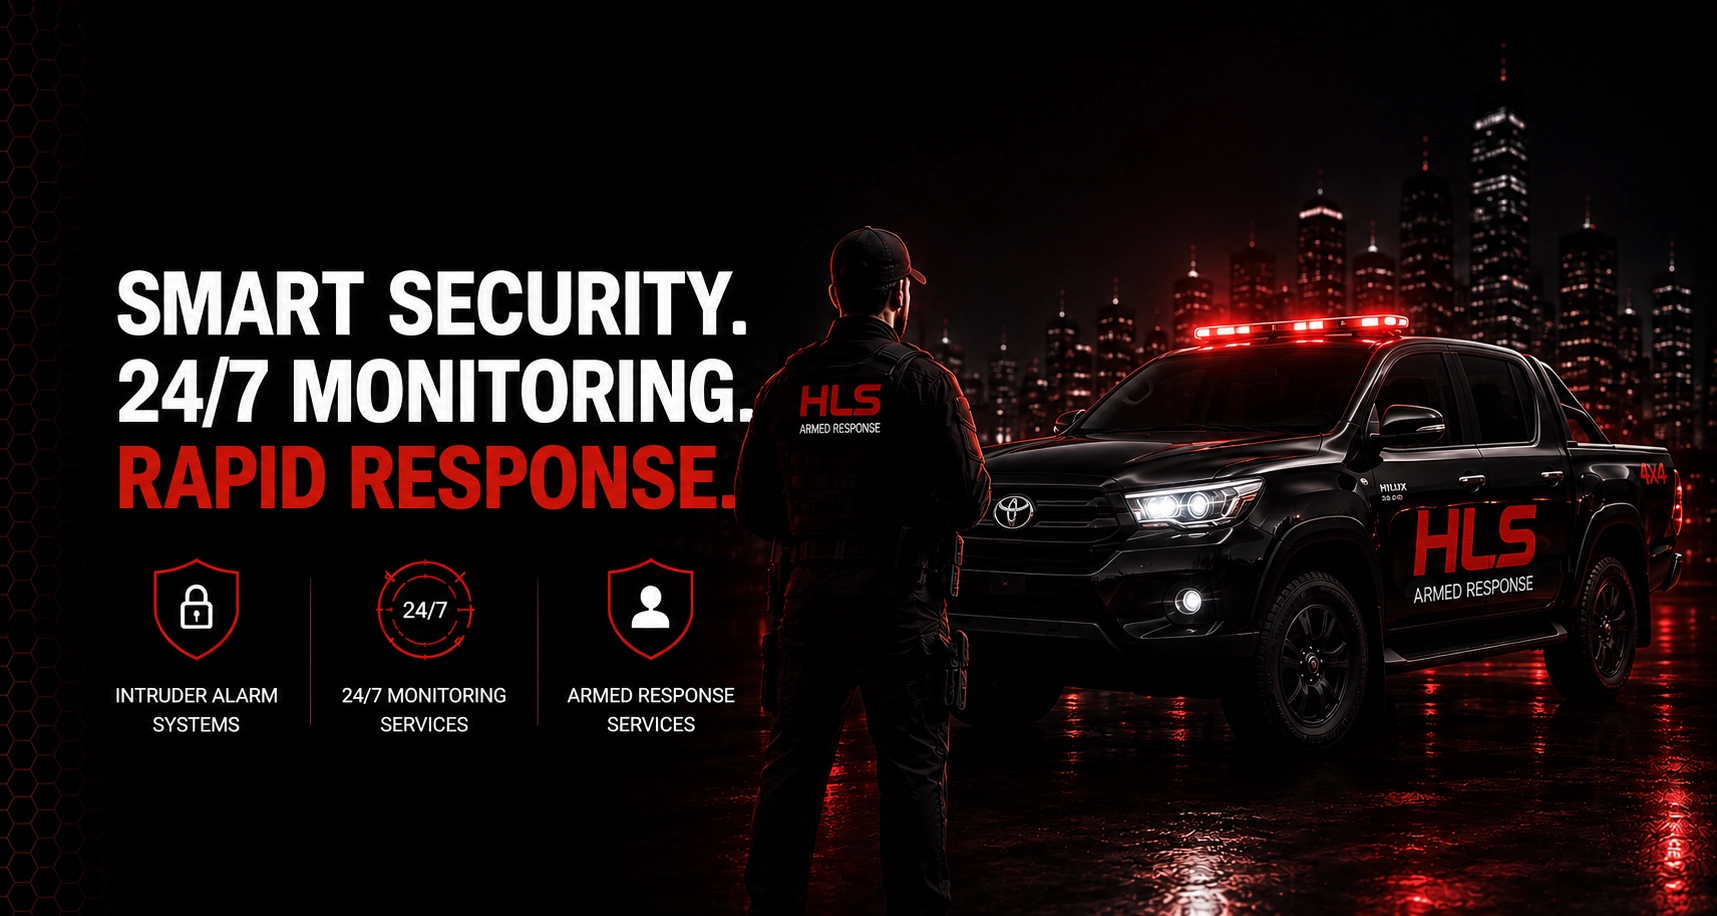
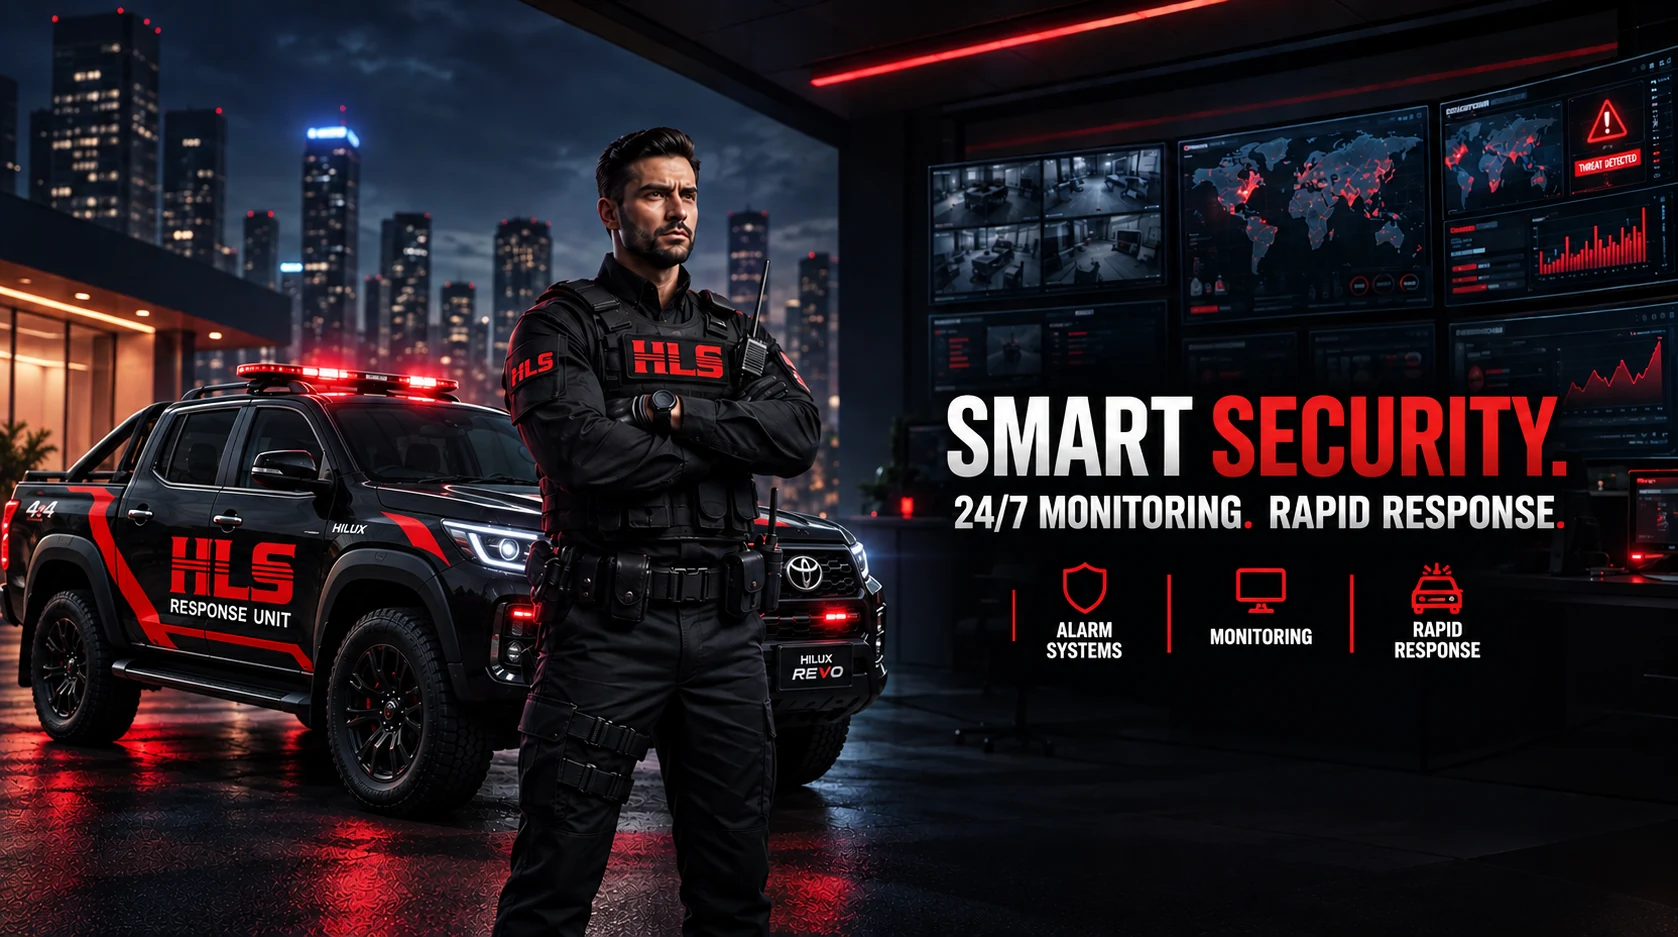
Checkpoint: Replaced the homepage hero artwork with the supplied desktop and mobile versions using the existing repository-local responsive WebP paths, preserving the current hero markup, layout, navigation, gradient, scroll indicator, and floating contact controls. The replacements retain their ori

diff --git a/server/index.ts b/server/index.ts
@@ -3,6 +3,7 @@ import { createServer } from "http";
 import path from "path";
 import { fileURLToPath } from "url";
 import { inquiryInputSchema, sendInquiryEmail } from "./inquiry";
+import { createViteMiddlewareConfig } from "./vite";
 
 const __filename = fileURLToPath(import.meta.url);
 const __dirname = path.dirname(__filename);
@@ -37,10 +38,7 @@ async function startServer() {
 
   if (process.env.NODE_ENV === "development") {
     const { createServer: createViteServer } = await import("vite");
-    const vite = await createViteServer({
-      server: { middlewareMode: true },
-      appType: "spa",
-    });
+    const vite = await createViteServer(createViteMiddlewareConfig(server));
     app.use(vite.middlewares);
   } else {
     const staticPath = path.resolve(__dirname, "public");

diff --git a/server/vite.test.ts b/server/vite.test.ts
@@ -1,0 +1,24 @@
+import { createServer } from "node:http";
+import { afterEach, describe, expect, it } from "vitest";
+import { createViteMiddlewareConfig } from "./vite";
+
+const servers: ReturnType<typeof createServer>[] = [];
+
+afterEach(() => {
+  for (const server of servers.splice(0)) {
+    server.close();
+  }
+});
+
+describe("Vite middleware configuration", () => {
+  it("attaches HMR to the Express HTTP server", () => {
+    const server = createServer();
+    servers.push(server);
+
+    const config = createViteMiddlewareConfig(server);
+
+    expect(config.appType).toBe("spa");
+    expect(config.server?.middlewareMode).toBe(true);
+    expect(config.server?.hmr).toEqual({ server });
+  });
+});

diff --git a/server/vite.ts b/server/vite.ts
@@ -1,0 +1,12 @@
+import type { Server } from "node:http";
+import type { InlineConfig } from "vite";
+
+export function createViteMiddlewareConfig(server: Server): InlineConfig {
+  return {
+    server: {
+      middlewareMode: true,
+      hmr: { server },
+    },
+    appType: "spa",
+  };
+}

diff --git a/ASSET_OPTIMIZATION_REPORT.md b/ASSET_OPTIMIZATION_REPORT.md
@@ -1,0 +1,12 @@
+# Homepage Banner Optimization Report
+
+The original four homepage banner assets were converted from PNG to dimension-preserving WebP files and committed to the production repository in commit `d09ce346da671232eeb587e63621093eb9af1bac`. The desktop and mobile hero rows below reflect the replacement images supplied on September 18, 2026.
+
+| Image | Original Size | Optimized Size | Original Dimensions | Final Dimensions | New Project Path |
+|---|---:|---:|---:|---:|---|
+| Desktop hero | 1,973,224 bytes | 202,536 bytes | 1678 × 937 | 1678 × 937 | `/images/hero/hls-hero-banner.webp` |
+| Mobile hero | 2,356,694 bytes | 279,848 bytes | 1024 × 1536 | 1024 × 1536 | `/images/hero/hls-mobile-hero-banner.webp` |
+| Desktop Operational Procedure | 1,682,980 bytes | 322,524 bytes | 1536 × 1024 | 1536 × 1024 | `/images/banners/hls-operational-procedure-banner.webp` |
+| Mobile Operational Procedure | 1,483,000 bytes | 349,722 bytes | 864 × 1821 | 864 × 1821 | `/images/banners/hls-operational-procedure-banner-mobile.webp` |
+
+All optimized files are below 1 MB, retain the original pixel dimensions and aspect ratios, and use portable repository-local paths compatible with Manus, GitHub, and Netlify.

diff --git a/todo.md b/todo.md
@@ -145,7 +145,7 @@
 - [x] Remove redundant original project copies only after verification.
 - [x] Commit and push the optimized assets plus Layout.tsx contact links to GitHub main.
 - [ ] Verify the live Netlify deployment and then create the Manus checkpoint.
-- [ ] Report original/optimized sizes, dimensions, paths, and GitHub commit SHA.
+- [x] Report original/optimized sizes, dimensions, paths, and GitHub commit SHA.
 
 ## Current Production Repository Hero Migration
 
